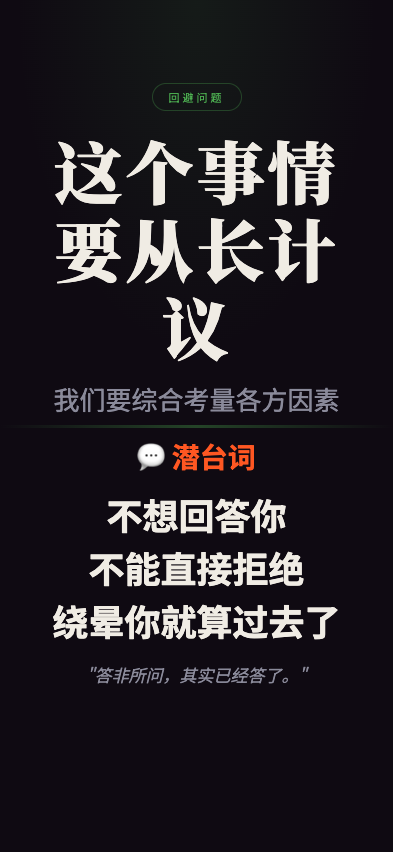
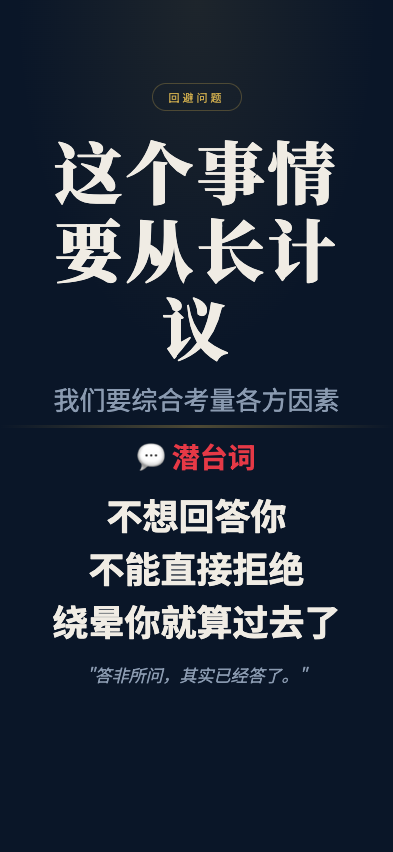
feat: 职场生存法则 screenshot - wodouzheyanglenihaibulijie

Changed region(s): [[0.3359, 0.4883, 0.6718, 0.5493], [0.4275, 0.0915, 0.5802, 0.1221]]

diff --git a/wuliao-tools/tools/biz-speak/scenes/zhegeshiqingyaocongchangjiyi.html b/wuliao-tools/tools/biz-speak/scenes/zhegeshiqingyaocongchangjiyi.html
@@ -7,11 +7,11 @@
 <link href="https://fonts.googleapis.com/css2?family=Noto+Serif+SC:wght@400;700;900&family=Noto+Sans+SC:wght@300;400;700&display=swap" rel="stylesheet">
 <style>
   :root {
-    --bg: #0f0a12;
+    --bg: #0a1628;
     --text: #f0ece4;
-    --text-dim: #8a8a9a;
-    --gold: #4caf50;
-    --red: #ff5722;
+    --text-dim: #8a9ab0;
+    --gold: #c9a84c;
+    --red: #e63946;
   }
   * { margin:0; padding:0; box-sizing:border-box; }
   html, body { width:100%; height:100%; overflow:hidden; }
@@ -24,11 +24,11 @@
   }
   body::before {
     content:''; position:absolute; top:0; left:0; right:0; height:45%;
-    background:radial-gradient(ellipse at 50% 0%, rgba(76,175,80,0.1) 0%, transparent 65%);
+    background:radial-gradient(ellipse at 50% 0%, rgba(201,168,76,0.1) 0%, transparent 65%);
     pointer-events:none; z-index:0;
   }
   .top { flex:1; display:flex; flex-direction:column; align-items:center; justify-content:flex-end; padding:4px 28px 8px; position:relative; z-index:1; }
-  .tag { font-size:11px; letter-spacing:3px; color:var(--gold); border:1px solid rgba(76,175,80,0.3); padding:5px 16px; border-radius:50px; margin-bottom:20px; }
+  .tag { font-size:11px; letter-spacing:3px; color:var(--gold); border:1px solid rgba(201,168,76,0.3); padding:5px 16px; border-radius:50px; margin-bottom:20px; }
   .main-title { font-family:'Noto Serif SC'; font-size:68px; font-weight:900; text-align:center; line-height:1.15; letter-spacing:3px; min-width:0; overflow-wrap:break-word; max-width:92%; }
   .sub-title { font-size:26px; color:var(--text-dim); text-align:center; margin-top:14px; }
   .divider { width:100%; height:3px; background:linear-gradient(90deg,transparent,var(--gold),transparent); opacity:0.35; flex-shrink:0; position:relative; z-index:1; }
@@ -39,7 +39,7 @@
   .quote { font-size:17px; color:var(--text-dim); font-style:italic; text-align:center; line-height:1.8; margin-top:18px; padding:0 12px; }
 </style>
 </head>
-<body>
+<body class="theme-1">
   <div class="top">
     <div class="tag">回避问题</div>
     <div class="main-title">这个事情要从长计议</div>
@@ -49,9 +49,7 @@
   <div class="bottom">
     <div class="truth-label">💬 潜台词</div>
     <div class="truth-lines">
-      <div class="truth-line">不想回答你</div>
-      <div class="truth-line">不能直接拒绝</div>
-      <div class="truth-line">绕晕你就算过去了</div>
+      <div class="truth-line">不想回答你</div><div class="truth-line">不能直接拒绝</div><div class="truth-line">绕晕你就算过去了</div>
     </div>
     <div class="quote">"答非所问，其实已经答了。"</div>
   </div>
